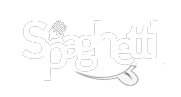
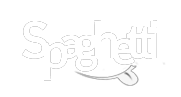
...

Changed region(s): [[0.2486, 0.1856, 0.3867, 0.433]]

diff --git a/assets/css/screen.css b/assets/css/screen.css
@@ -776,8 +776,8 @@ body.nav-opened .nav {
     -moz-box-sizing: border-box;
     box-sizing: border-box;
     display: block;
-    height: 38px;
-    padding: 1px 0 5px 0;
+    height: 75px;
+    padding: 0px 0 0px 0;
     width: auto;
 }
 
@@ -1630,7 +1630,7 @@ body:not(.post-template) .post-title {
     }
 
     .blog-logo img {
-        padding: 4px 0;
+        padding: 0px 0;
     }
 
     .page-title {
@@ -1770,7 +1770,7 @@ body:not(.post-template) .post-title {
     }
 
     .blog-logo img {
-        height: 30px;
+        height: 45px;
     }
 
     .menu-button {
